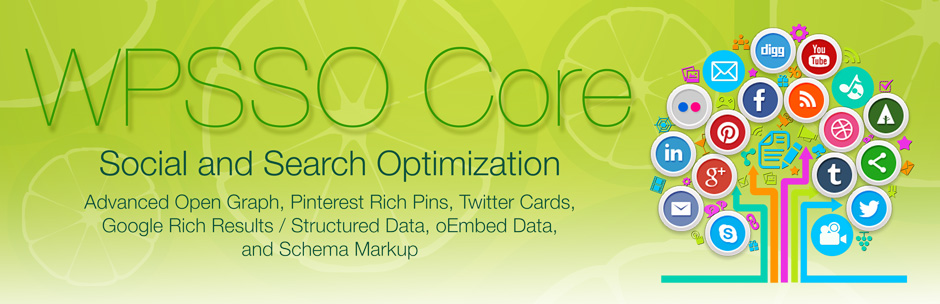
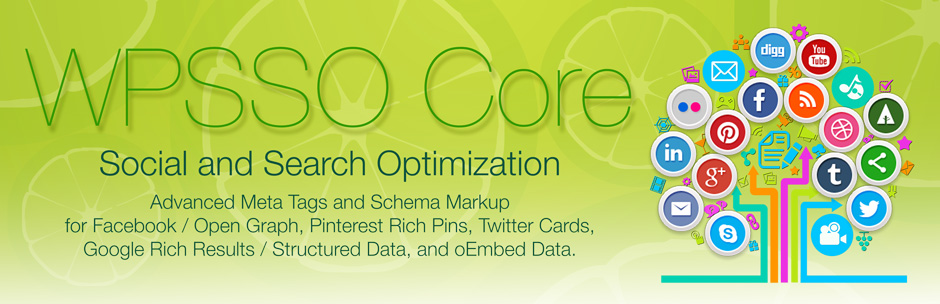
non-essential support files (documentation and assets)

Changed region(s): [[0.0617, 0.6217, 0.6479, 0.8586]]

diff --git a/index.html b/index.html
@@ -25,7 +25,7 @@
         </ul>
       </header>
       <section>
-<h1>WPSSO Core | Advanced Social and Search Optimization Markup</h1>
+<h1>WPSSO Core | Advanced Meta Tags and Schema Markup</h1>
 
 <table>
 <tr><th align="right" valign="top" nowrap>Plugin Name</th><td>WPSSO Core</td></tr>
